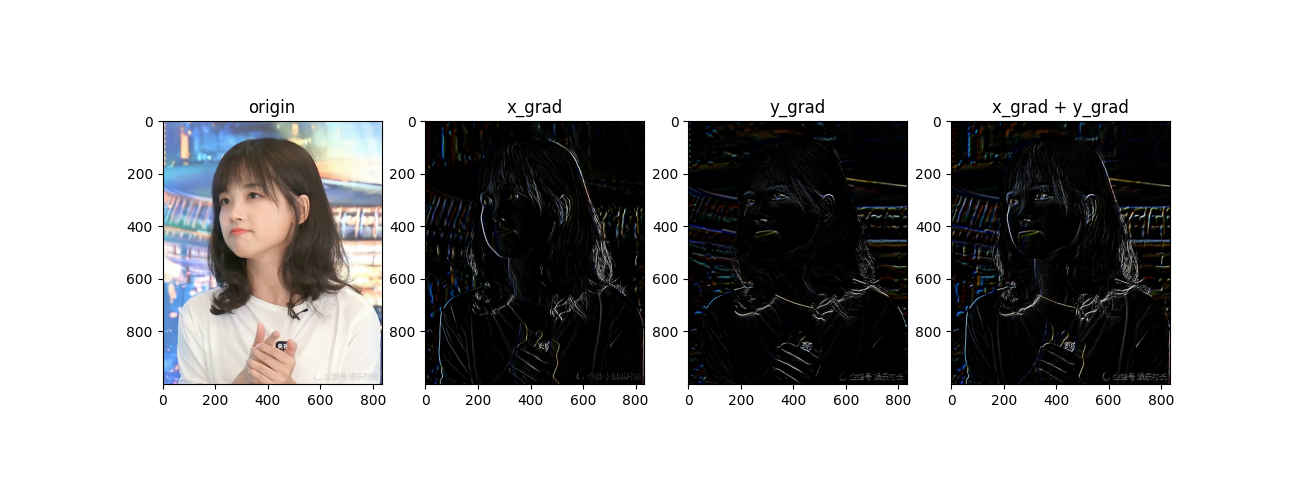
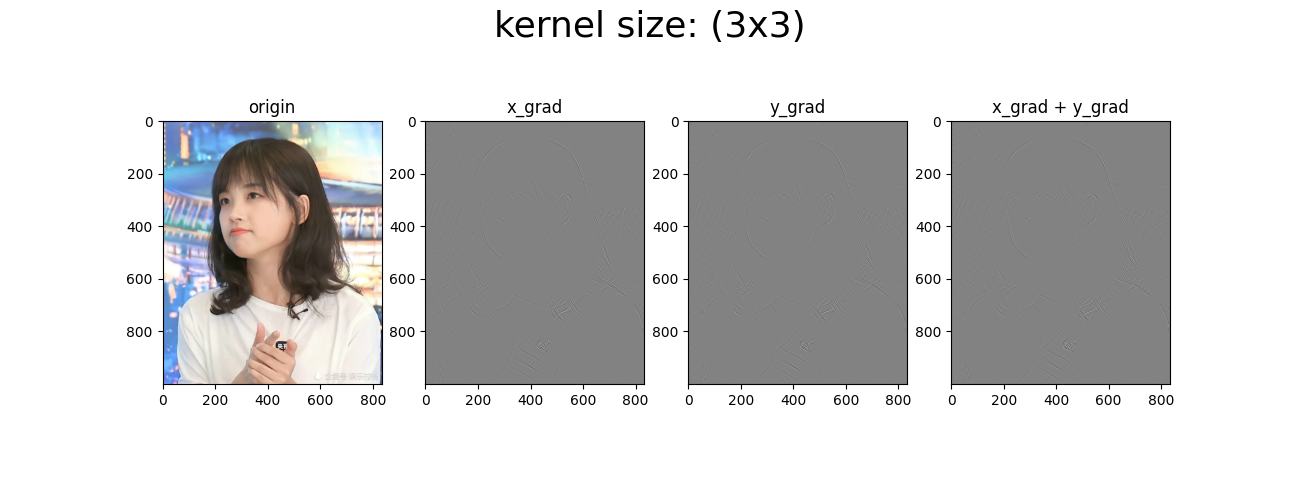
fix(filter): func pipeline

Changed region(s): [[0.5231, 0.24, 0.9231, 0.78], [0.3077, 0.24, 0.4923, 0.78], [0.3692, 0.0, 0.6154, 0.09]]

diff --git a/题目2_边缘提取/edge_det.py b/题目2_边缘提取/edge_det.py
@@ -3,72 +3,106 @@ import numpy as np
 import matplotlib.pyplot as plt
 
 
-def edge_det(img, filter_type='sobel'):
-    img = img.copy()
-    img = np.array(img * 255, dtype=np.uint8)
+def edge_det(img, filter_type='sobel', kernel_size=3):
+    img_ = img.copy()
     if filter_type == 'sobel':
-        img = cv2.Sobel(img, cv2.CV_64F, 1, 1, ksize=5)
+        img_ = cv2.Sobel(img_, cv2.CV_64F, 1, 1, ksize=kernel_size)
+        img_ = cv2.convertScaleAbs(img_)
     elif filter_type == 'laplacian':
-        img = cv2.Laplacian(img, cv2.CV_64F, ksize=3)
+        img_ = cv2.Laplacian(img_, cv2.CV_64F, ksize=kernel_size)
+        img_ = cv2.convertScaleAbs(img_)
     elif filter_type == 'canny':
-        img = cv2.Canny(img, threshold1=100, threshold2=200)
-    img = np.array(img / 255, dtype=np.float32)
-    return img
+        img_ = cv2.Canny(img_, threshold1=100, threshold2=200)
+    return img_
 
-def task1(img_path):
+
+def task1(img_path, kernel_size=3):
     img = cv2.imread(img_path)
-    img = img / 255
+    img = cv2.cvtColor(img, cv2.COLOR_BGR2RGB)
+    img_origin = img.copy()
+    img = cv2.cvtColor(img, cv2.COLOR_RGB2GRAY)
 
-    img_sobel = edge_det(img, 'sobel')
-    img_laplacian = edge_det(img, 'laplacian')
+    img_sobel = edge_det(img, 'sobel', kernel_size)
+    img_laplacian = edge_det(img, 'laplacian', kernel_size)
     img_canny = edge_det(img, 'canny')
 
-    cv2.imshow('origin', img)
-    cv2.imshow('sobel', img_sobel)
-    cv2.imshow('laplacian', img_laplacian)
-    cv2.imshow('canny', img_canny)
-    cv2.waitKey()
-
-
-def task2(img_path):
-    img = cv2.imread(img_path)
-    img = img / 255
-
-    x_grad = cv2.Sobel(img, cv2.CV_64F, 1, 0, ksize=3)
-    y_grad = cv2.Sobel(img, cv2.CV_64F, 0, 1, ksize=3)
-
-    img = np.array(img * 255, dtype=np.uint8)
-    img = cv2.cvtColor(img, cv2.COLOR_BGR2RGB)
-    plt.figure(figsize=(13, 5))
+    plt.figure(figsize=(10, 3))
+    plt.subplots_adjust(wspace=0.3, bottom=0.2, top=0.8)
+    # plt.suptitle('kernel size: {}'.format(kernel_size), fontsize=26)
     plt.subplot(1, 4, 1)
-    plt.imshow(img)
+    plt.imshow(img_origin)
     plt.title('origin')
     plt.subplot(1, 4, 2)
-    plt.imshow(x_grad)
+    plt.imshow(img_sobel, cmap='gray')
+    plt.title('sobel')
+    plt.subplot(1, 4, 3)
+    plt.imshow(img_laplacian, cmap='gray')
+    plt.title('laplacian')
+    plt.subplot(1, 4, 4)
+    plt.imshow(img_canny, cmap='gray')
+    plt.title('canny')
+    plt.savefig('edge_det.png')
+    plt.show()
+
+
+
+def task2(img_path, kernel_size=3):
+    img = cv2.imread(img_path)
+    img = cv2.cvtColor(img, cv2.COLOR_BGR2RGB)
+    img_origin = img.copy()
+    img = cv2.cvtColor(img, cv2.COLOR_RGB2GRAY)
+    # img = img / 255
+
+    x_grad = cv2.Sobel(img, cv2.CV_64F, 1, 0, ksize=kernel_size)
+    y_grad = cv2.Sobel(img, cv2.CV_64F, 0, 1, ksize=kernel_size)
+
+    x_grad = cv2.convertScaleAbs(x_grad)
+    y_grad = cv2.convertScaleAbs(y_grad)
+    img_sobel = cv2.addWeighted(x_grad, 0.5, y_grad, 0.5, 0)
+
+
+
+    plt.figure(figsize=(10, 3))
+    plt.subplots_adjust(wspace=0.3, bottom=0.2, top=0.8)
+    # plt.suptitle('kernel size: {}'.format(kernel_size), fontsize=26)
+    plt.subplot(1, 4, 1)
+    plt.imshow(img_origin)
+    plt.title('origin')
+    plt.subplot(1, 4, 2)
+    plt.imshow(x_grad, cmap='gray')
     plt.title('x_grad')
     plt.subplot(1, 4, 3)
-    plt.imshow(y_grad)
+    plt.imshow(y_grad, cmap='gray')
     plt.title('y_grad')
     plt.subplot(1, 4, 4)
-    plt.imshow(x_grad + y_grad)
-    plt.title('x_grad + y_grad')
-    plt.savefig('grad.png')
+    plt.imshow(img_sobel, cmap='gray')
+    plt.title('xy_grad')
+    plt.savefig('edge_det.png')
     plt.show()
+
+    # cv2.imshow('x_grad', x_grad)
+    # cv2.imshow('y_grad', y_grad)
+    # cv2.imshow('x_grad + y_grad', x_grad + y_grad)
+    # cv2.waitKey()
 
 
 def task3(img_path):
     img = cv2.imread(img_path)
     img = cv2.cvtColor(img, cv2.COLOR_BGR2RGB)
-    img = img / 255
+    img_origin = img.copy()
+    img = cv2.cvtColor(img, cv2.COLOR_RGB2GRAY)
 
-    laplacian = cv2.Laplacian(img, cv2.CV_64F, ksize=5)
-    img_add = img + laplacian
+    laplacian = cv2.Laplacian(img, cv2.CV_64F, ksize=3)
+    laplacian = cv2.convertScaleAbs(laplacian)
+    laplacian_ = np.array([laplacian, laplacian, laplacian]).transpose(1, 2, 0)
+    # img_add = cv2.addWeighted(img_origin, 1, laplacian_, 1, 0)
+    img_add = cv2.add(img_origin, laplacian_)
     plt.figure(figsize=(10, 5))
     plt.subplot(1, 3, 1)
-    plt.imshow(img)
+    plt.imshow(img_origin)
     plt.title('origin')
     plt.subplot(1, 3, 2)
-    plt.imshow(laplacian)
+    plt.imshow(laplacian, cmap='gray')
     plt.title('laplacian')
     plt.subplot(1, 3, 3)
     plt.imshow(img_add)
@@ -79,10 +113,11 @@ def task3(img_path):
 
 
 if __name__ == '__main__':
-    img_path = '../imgs/bb.png'
-    # task1(img_path)
-    # task2(img_path)
-    # task3(img_path)
+    img_path = '../imgs/bb3.png'
+    # img_path = '../imgs/gadot.png'
+    # task1(img_path, kernel_size=3)
+    # task2(img_path, kernel_size=3)
+    task3(img_path)
 
 
 
